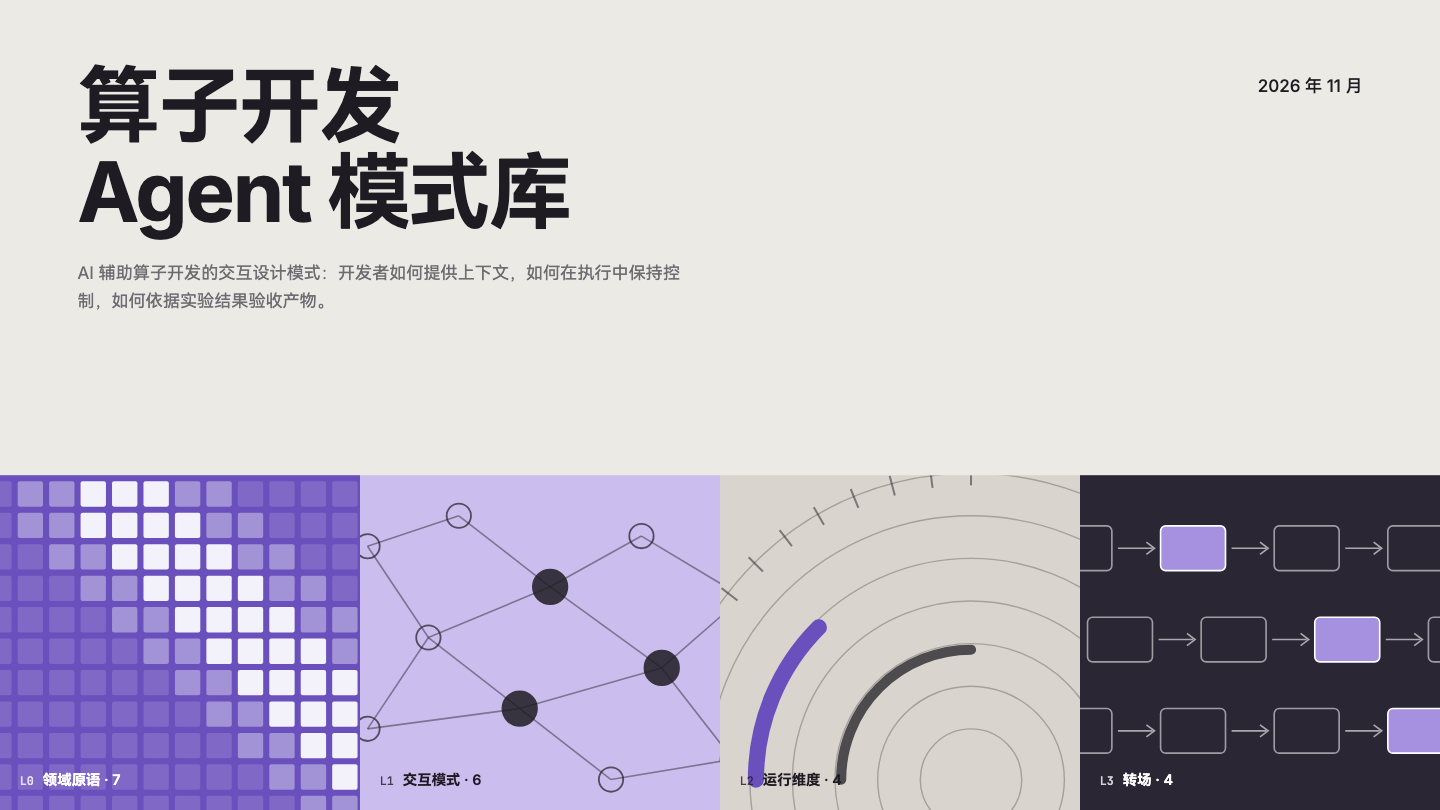
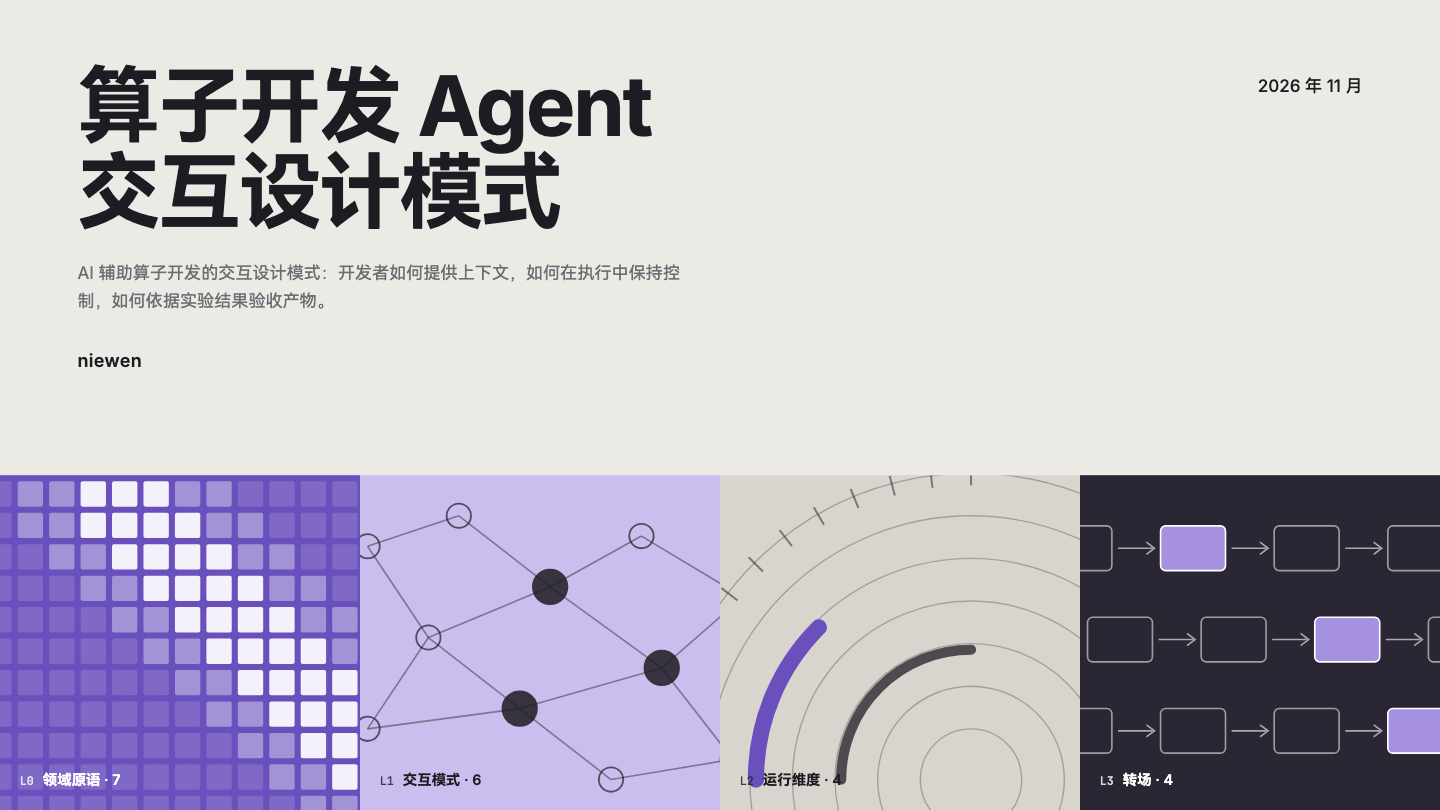
chore(operator-agent-patterns): rename to 算子开发 Agent 交互设计模式 and add author
Updates the deck cover, page title, launch-page card and cover preview.

Changed region(s): [[0.0312, 0.0926, 0.4688, 0.3086], [0.0625, 0.4321, 0.0938, 0.463]]

diff --git a/operator-agent-patterns/index.html b/operator-agent-patterns/index.html
@@ -1,6 +1,6 @@
 <!doctype html>
 <html lang="zh-CN"><head><meta charset="utf-8"><meta name="viewport" content="width=device-width,initial-scale=1,viewport-fit=cover">
-<title>算子开发 Agent 模式库</title>
+<title>算子开发 Agent 交互设计模式</title>
 <link rel="preconnect" href="https://fonts.googleapis.com">
 <link rel="preconnect" href="https://fonts.gstatic.com" crossorigin>
 <link rel="stylesheet" href="https://fonts.googleapis.com/css2?family=Inter:wght@400;500;600;700&family=JetBrains+Mono:wght@400;500&display=swap">
@@ -530,6 +530,7 @@ h1,h2,h3{font-weight:650;letter-spacing:-.01em}
 .ctop h1{font-size:92px;line-height:1.04;font-weight:700;letter-spacing:-.025em}
 .ctop .date{font-size:19px;line-height:1.5;text-align:right;font-weight:500;padding-top:12px}
 .ctop .sub{grid-column:1/-1;font-size:19px;color:var(--muted);max-width:56ch;line-height:1.6}
+.ctop .by{grid-column:1/-1;font-size:20px;font-weight:600;letter-spacing:.02em;margin-top:6px}
 .strip{display:grid;grid-template-columns:repeat(4,minmax(0,1fr))}
 .strip>div{position:relative;overflow:hidden}
 .art,.art svg{position:absolute;inset:0;width:100%;height:100%;display:block}
@@ -624,9 +625,10 @@ h1,h2,h3{font-weight:650;letter-spacing:-.01em}
 <div class="slide cv" data-tag="Operator Agent Patterns">
 <div class="sheet"><div class="dstage"><div class="cover">
   <div class="ctop">
-    <h1>算子开发<br>Agent 模式库</h1>
+    <h1>算子开发 Agent<br>交互设计模式</h1>
     <div class="date">2026 年 11 月</div>
     <p class="sub">AI 辅助算子开发的交互设计模式：开发者如何提供上下文，如何在执行中保持控制，如何依据实验结果验收产物。</p>
+    <p class="by">niewen</p>
   </div>
   <div class="strip">
     <div style="background:#6a50bd;color:#fff"><div class="art" data-art="grid"></div><span class="lb"><b>L0</b>领域原语 · 7</span></div>

diff --git a/index.html b/index.html
@@ -237,9 +237,9 @@ const catOf = id => CATEGORIES.find(c => c.id === id) || {};
 
 const ITEMS = [
   {
-    title: "算子开发 Agent 模式库",
+    title: "算子开发 Agent 交互设计模式",
     cat: "方法", status: "proto",
-    desc: "AI 辅助算子开发的交互设计模式库,29 页 16:9 deck:七个领域原语(对象锚点、证据链、验证阶梯等)、六种交互模式及其界面骨架屏、异步/主动/并行/授权四个运行维度与四个模式转场;再结合透明可解释、认知减负、人在环路三原则和七个界面级模式,落到用户旅程、模式选型、建设顺序与指标口径。",
+    desc: "AI 辅助算子开发的交互设计模式,29 页 16:9 deck:七个领域原语(对象锚点、证据链、验证阶梯等)、六种交互模式及其界面骨架屏、异步/主动/并行/授权四个运行维度与四个模式转场;再结合透明可解释、认知减负、人在环路三原则和七个界面级模式,落到用户旅程、模式选型、建设顺序与指标口径。",
     preview: "assets/preview-operator-agent-patterns.png",
     tags: ["交互模式", "AI Infra", "算子开发", "骨架屏"],
     href: "operator-agent-patterns/"
